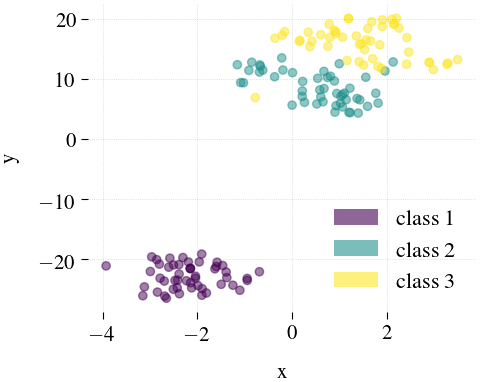
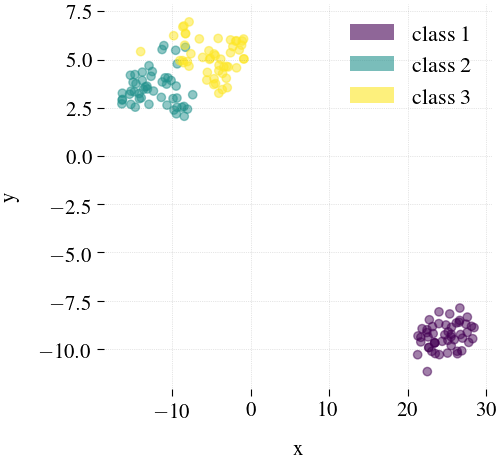
update

diff --git a/plot2D.py b/plot2D.py
@@ -34,7 +34,7 @@ y = X_reduced[:, 1]
 labels = data.target
 formatter = plt.FuncFormatter(lambda i, *args: target[int(i)])
 
-size = (5, 4)
+size = (30, 30)
 ylabel = 'y'
 xlabel = 'x'
 title = 'Iris 2D'
@@ -42,7 +42,10 @@ title = 'Iris 2D'
 plt.rc('text', usetex=True)
 plt.rc('font', family='serif')
 plt.rc('font', serif='Times')
-plt.figure(figsize=size)
+plt.figure()
+fig = plt.gcf()
+DPI = fig.get_dpi()
+fig.set_size_inches(500.0/float(DPI), 500.0/float(DPI))
 sc = plt.scatter(x, y, c=labels, alpha=0.5)
 plt.grid(True, linestyle=":", color='black', alpha=0.2, linewidth=0.5)
 plt.xlabel(xlabel, fontsize=15, labelpad=15)

diff --git a/README.md b/README.md
@@ -94,31 +94,36 @@ For both scripts, mdr-mob.py and mdr-opm.py you can use:
 
 **Quick benchmark results**
 
-We test three well-known datasets (Iris, Wine and Breast Cancer) and three well-known dimensionality reduction algorithm (PCA, FA and LSA).
+We test three well-known datasets (Iris, Wine and Breast Cancer) and three well-known dimensionality reduction algorithm (PCA, FA, LSA, TSNA). All algorithms were execute with default parameters.
 
 	# Mdr using Greed Rand Twohopes coarsening algorithm (Execute more time to find the best result)
-	$ python plot2D.py wine mdr 1 0.5 greedy_seed_twohops
+	$ python plot2D.py iris mdr 1 0.5 greedy_seed_twohops
 
 	# Mdr using Greed Twohopes coarsening algorithm
 	$ python plot2D.py wine mdr 3 0.5 greedy_twohops
 
 	# Mdr using HEM coarsening algorithm
-	$ python plot2D.py breast-cancer mdr 4 0.5 HEM
+	$ python plot2D.py breast-cancer mdr 4 0.5 hem
 
 	# Principal component analysis (PCA)
-	$ python plot2D.py pca iris
-	$ python plot2D.py pca wine
-	$ python plot2D.py pca breast-cancer
+	$ python plot2D.py iris pca
+	$ python plot2D.py wine pca
+	$ python plot2D.py breast-cancer pca
 
 	# Feature Agglomeration (FA)
-	$ python plot2D.py fa iris
-	$ python plot2D.py fa wine
-	$ python plot2D.py fa breast-cancer
+	$ python plot2D.py iris fa
+	$ python plot2D.py wine fa
+	$ python plot2D.py breast-cancer fa
 
 	# Truncated SVD (aka LSA)
-	$ python plot2D.py lsa iris
-	$ python plot2D.py lsa wine
-	$ python plot2D.py lsa breast-cancer
+	$ python plot2D.py iris lsa
+	$ python plot2D.py wine lsa
+	$ python plot2D.py breast-cancer lsa
+
+	# t-distributed Stochastic Neighbor Embedding (TSNE)
+	$ python plot2D.py iris tsne
+	$ python plot2D.py wine tsne
+	$ python plot2D.py breast-cancer tsne
 
 **Iris**
 
@@ -126,10 +131,13 @@ We test three well-known datasets (Iris, Wine and Breast Cancer) and three well-
 | ------------------------ | ---------------------------------- |
 | ![](output/iris-mdr.png) | ![](output/iris-pca.png)           |
 
-| Feature Agglomeration   | Truncated SVD (aka LSA)  | t-distributed Stochastic Neighbor Embedding |
-| ----------------------- | ------------------------ | ------------------------------------------- |
-| ![](output/iris-fa.png) | ![](output/iris-lsa.png) | ![](output/iris-tsne.png)                   |
+| Feature Agglomeration   | Truncated SVD (aka LSA)  |
+| ----------------------- | ------------------------ |
+| ![](output/iris-fa.png) | ![](output/iris-lsa.png) |
 
+| t-distributed Stochastic Neighbor Embedding |
+| ------------------------------------------- |
+| ![](output/iris-tsne.png)                   |
 
 **Wine**
 
@@ -137,9 +145,14 @@ We test three well-known datasets (Iris, Wine and Breast Cancer) and three well-
 | ------------------------ | ---------------------------------- |
 | ![](output/wine-mdr.png) | ![](output/wine-pca.png)           |
 
-| Feature Agglomeration   | Truncated SVD (aka LSA)  | t-distributed Stochastic Neighbor Embedding |
-| ----------------------- | ------------------------ | ------------------------------------------- |
-| ![](output/wine-fa.png) | ![](output/wine-lsa.png) | ![](output/wine-tsne.png)                   |
+| Feature Agglomeration   | Truncated SVD (aka LSA)  |
+| ----------------------- | ------------------------ |
+| ![](output/wine-fa.png) | ![](output/wine-lsa.png) |
+
+| t-distributed Stochastic Neighbor Embedding |
+| ------------------------------------------- |
+| ![](output/wine-tsne.png)                   |
+
 
 **Breast Cancer**
 
@@ -147,9 +160,13 @@ We test three well-known datasets (Iris, Wine and Breast Cancer) and three well-
 | --------------------------------- | ---------------------------------- |
 | ![](output/breast-cancer-mdr.png) | ![](output/breast-cancer-pca.png)  |
 
-| Feature Agglomeration            | Truncated SVD (aka LSA)           | t-distributed Stochastic Neighbor Embedding |
-| -------------------------------- | --------------------------------- | ------------------------------------------- |
-| ![](output/breast-cancer-fa.png) | ![](output/breast-cancer-lsa.png) | ![](output/breast-cancer-tsne.png)          |
+| Feature Agglomeration            | Truncated SVD (aka LSA)           |
+| -------------------------------- | --------------------------------- |
+| ![](output/breast-cancer-fa.png) | ![](output/breast-cancer-lsa.png) |
+
+| t-distributed Stochastic Neighbor Embedding |
+| ------------------------------------------- |
+| ![](output/breast-cancer-tsne.png)          |
 
 **Known Bugs**
 
